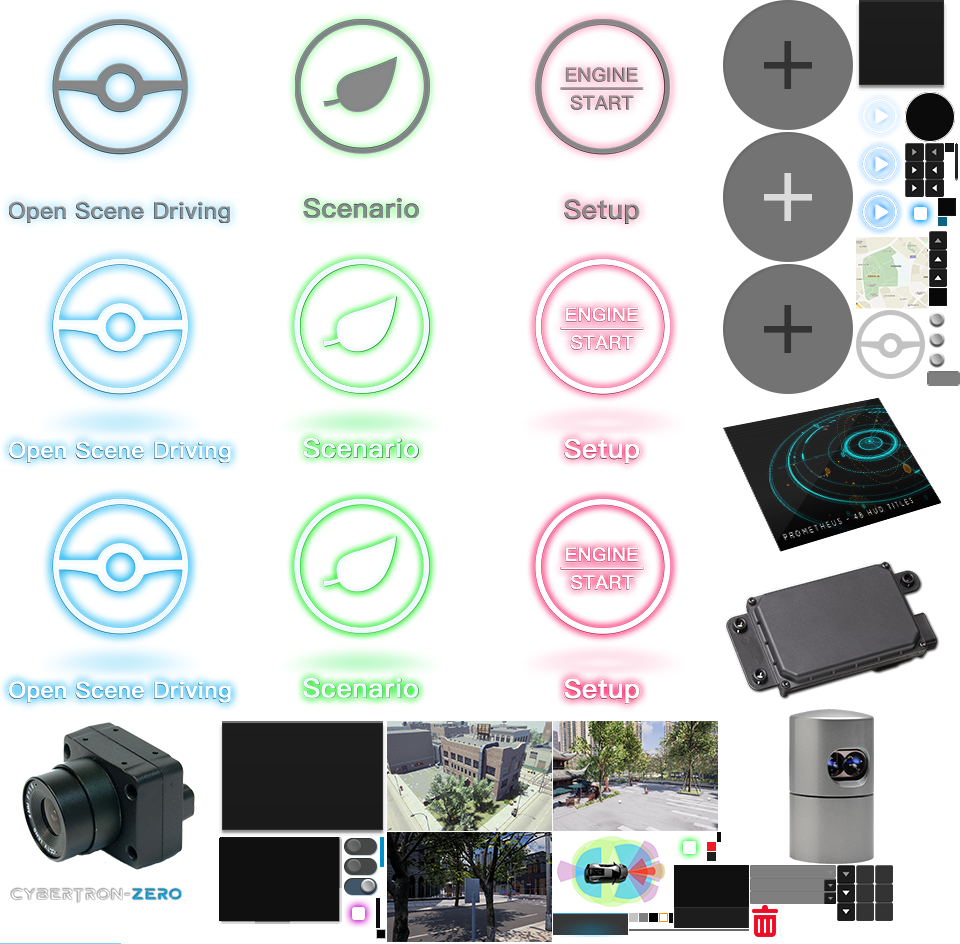
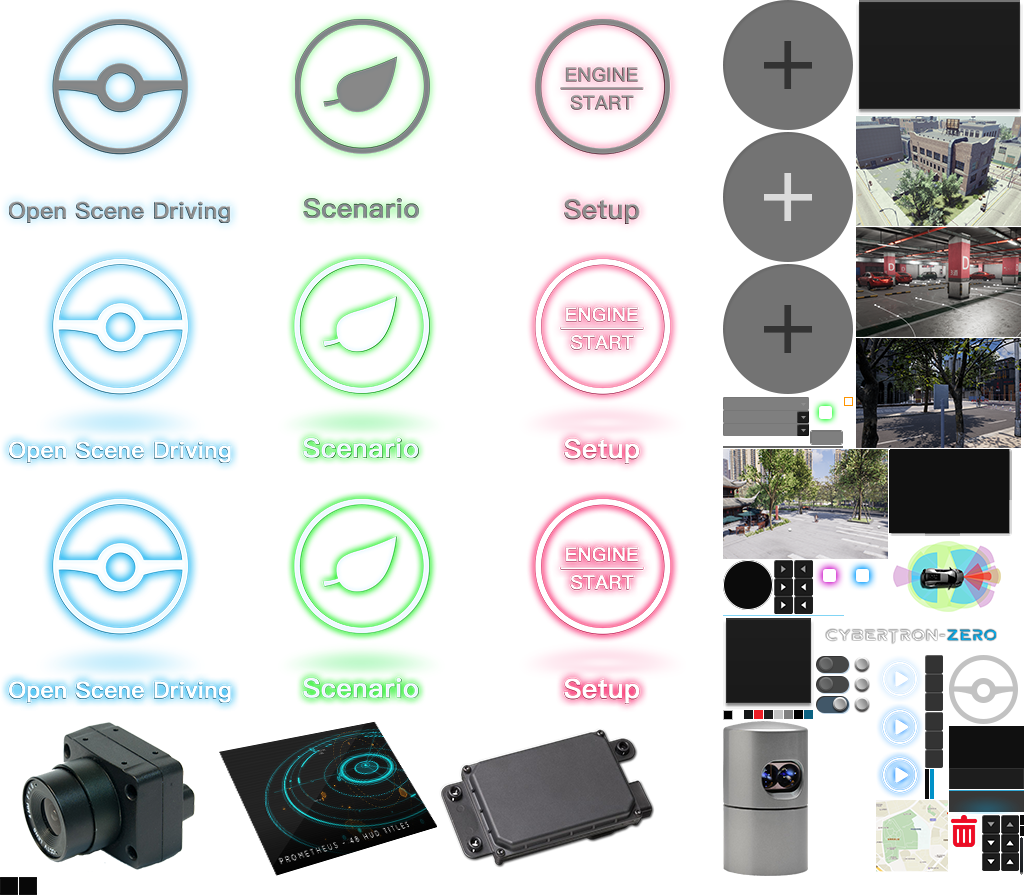
add Packing scene. release.

diff --git a/release/web/js/ui/layaUI.max.all.js b/release/web/js/ui/layaUI.max.all.js
@@ -330,7 +330,7 @@ var RoutePointViewUI=(function(_super){
 
 		}
 
-		RoutePointViewUI.uiView={"type":"View","props":{"y":0,"x":0,"width":80,"visible":true,"height":80},"child":[{"type":"Image","props":{"y":40,"x":40,"width":50,"var":"arrowImage","skin":"custom/pixel_red.png","sizeGrid":"1,1,1,1","height":5,"anchorY":0.5,"anchorX":0}},{"type":"Image","props":{"visible":true,"var":"selectedMark","top":1,"skin":"custom/circle.png","right":1,"left":1,"bottom":1,"anchorY":0.5,"anchorX":0.5},"child":[{"type":"Image","props":{"var":"rotationButton","top":0,"skin":"custom/circle.png","right":0,"left":0,"bottom":0}}]},{"type":"Image","props":{"width":40,"var":"dragButton","skin":"custom/circle.png","sizeGrid":"2,2,2,2","height":40,"centerY":0,"centerX":0,"anchorY":0.5,"anchorX":0.5}},{"type":"Label","props":{"var":"indexLabel","text":"99","fontSize":24,"color":"#ffffff","centerY":0,"centerX":0}}]};
+		RoutePointViewUI.uiView={"type":"View","props":{"y":0,"x":0,"width":60,"visible":true,"height":60},"child":[{"type":"Image","props":{"y":30,"x":30,"width":40,"var":"arrowImage","skin":"custom/pixel_red.png","sizeGrid":"1,1,1,1","height":5,"anchorY":0.5,"anchorX":0}},{"type":"Image","props":{"visible":true,"var":"selectedMark","top":1,"skin":"custom/circle.png","sizeGrid":"2,2,2,2","right":1,"left":1,"bottom":1,"anchorY":0.5,"anchorX":0.5},"child":[{"type":"Image","props":{"var":"rotationButton","top":0,"skin":"custom/circle.png","right":0,"left":0,"bottom":0}}]},{"type":"Image","props":{"width":40,"var":"dragButton","skin":"custom/circle.png","sizeGrid":"2,2,2,2","height":40,"centerY":0,"centerX":0,"anchorY":0.5,"anchorX":0.5}},{"type":"Label","props":{"var":"indexLabel","text":"99","fontSize":24,"color":"#ffffff","centerY":0,"centerX":0}}]};
 		return RoutePointViewUI;
 	})(View);
 var ObstacleEditorMainPanelUI=(function(_super){

diff --git a/release/web/js/WebClient.js b/release/web/js/WebClient.js
@@ -241,6 +241,10 @@ var WebClient = (function (window, Laya, logger) {
                     scene: "Shanghai",
                     image: "custom/image_scene_Shanghai.png",
                 },
+                {
+                    scene: "Parking",
+                    image: "custom/image_scene_Parking.png",
+                },
             ]
         })
     };

diff --git a/src/WebClient.js b/src/WebClient.js
@@ -241,6 +241,10 @@ var WebClient = (function (window, Laya, logger) {
                     scene: "Shanghai",
                     image: "custom/image_scene_Shanghai.png",
                 },
+                {
+                    scene: "Parking",
+                    image: "custom/image_scene_Parking.png",
+                },
             ]
         })
     };
